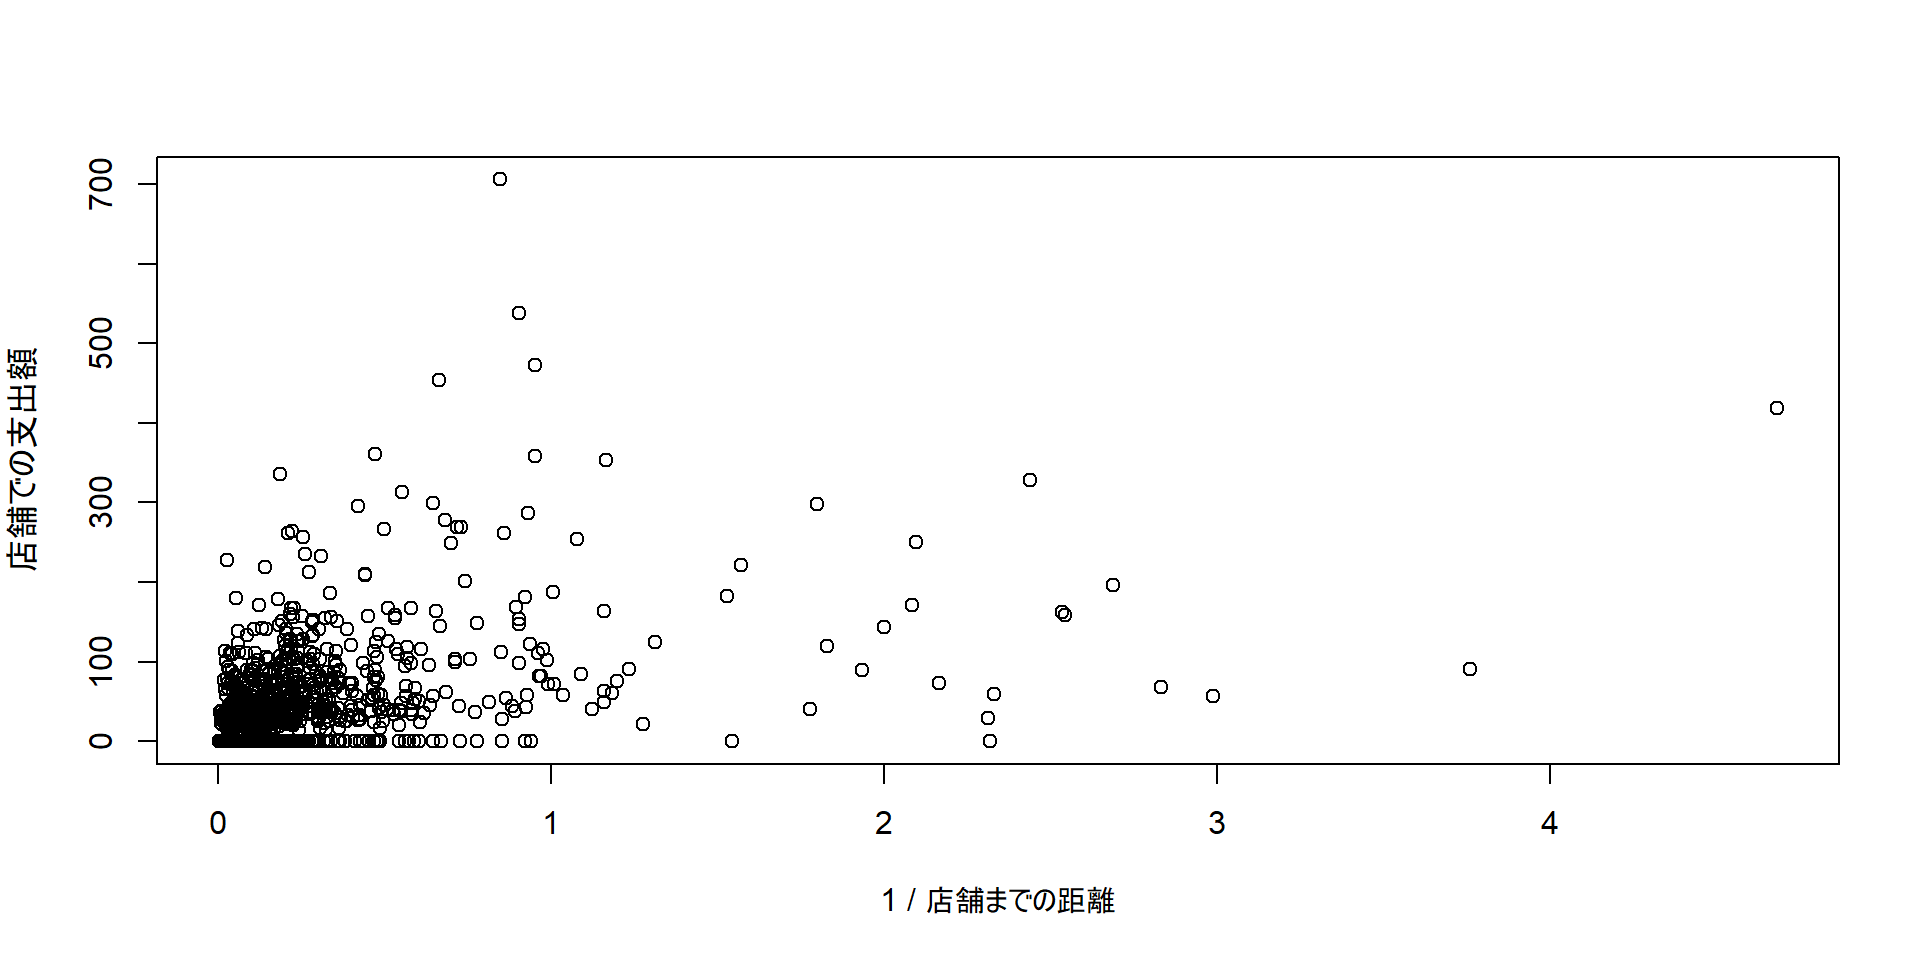
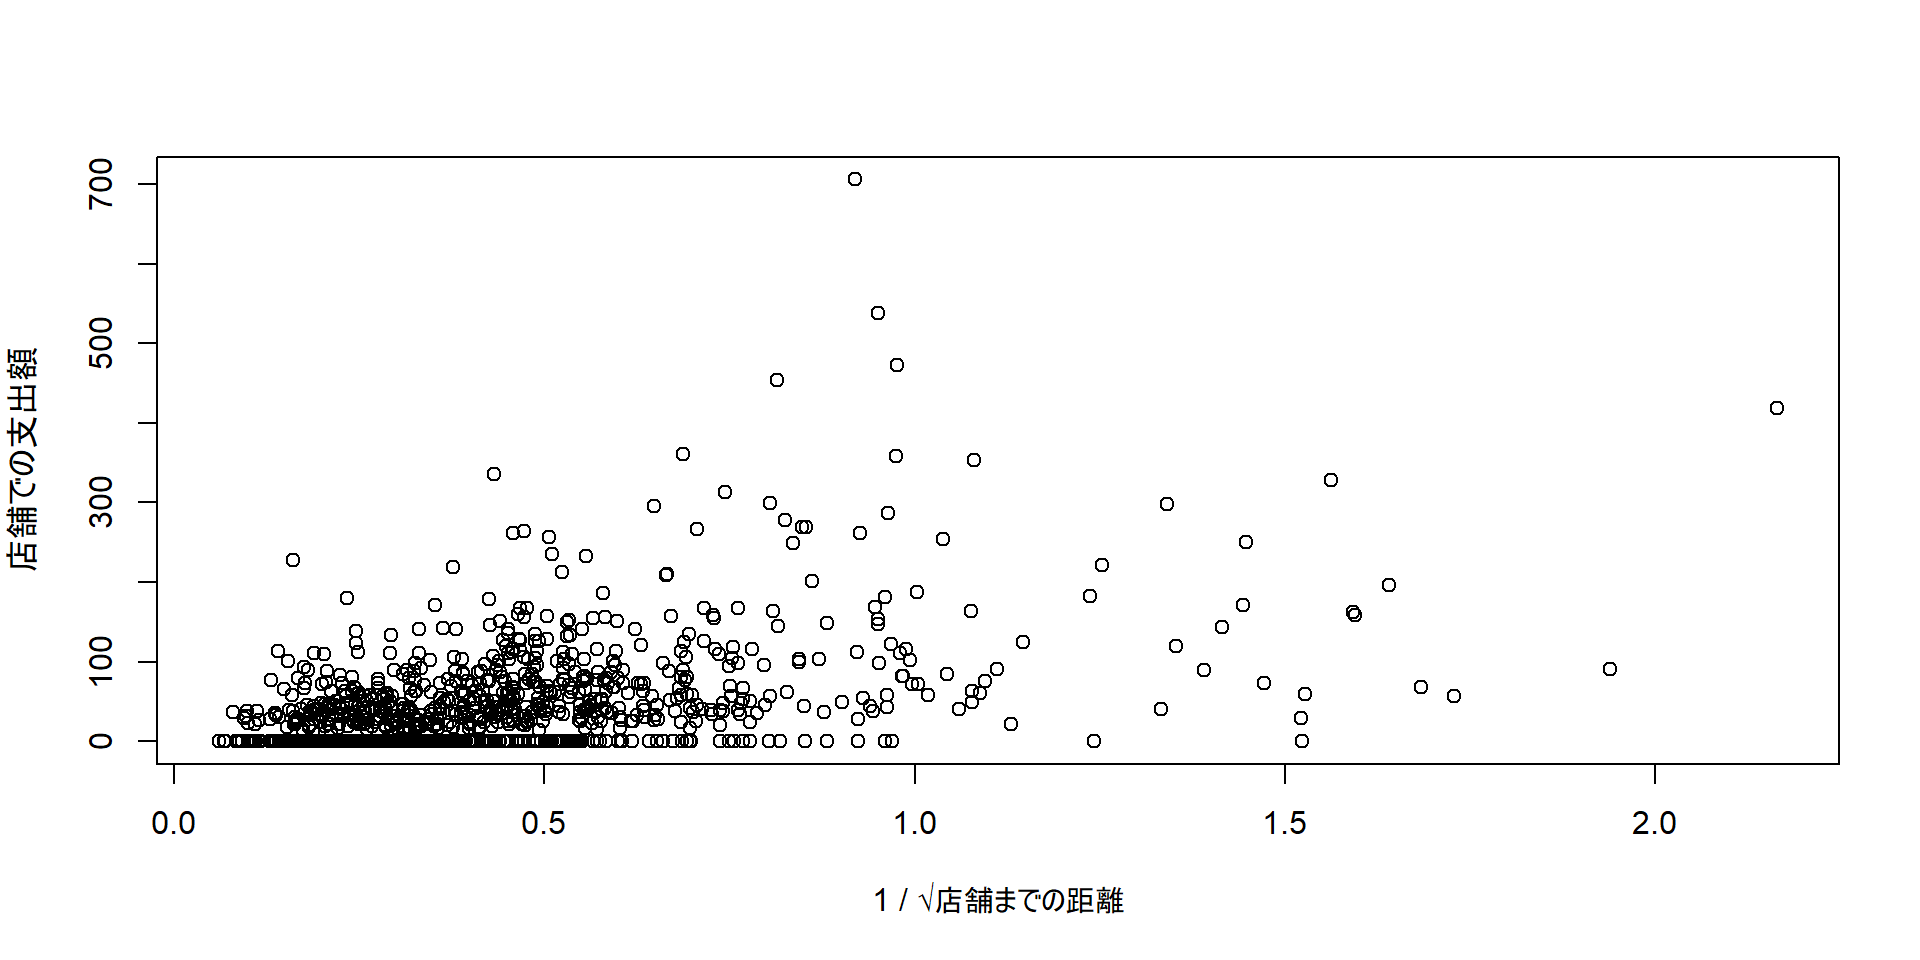
一部変換ミスを修正

diff --git a/20230422/Base_for_BeginneRs/slide.html b/20230422/Base_for_BeginneRs/slide.html
@@ -787,14 +787,14 @@ store.spend        -0.05224465 -0.051690053  0.89275685  1.000000000</code></pre
 <li>距離の逆数との相関を取ってみる</li>
 </ul>
 <div class="cell">
-<div class="sourceCode cell-code" id="cb28"><pre class="sourceCode numberSource r number-lines code-with-copy"><code class="sourceCode r"><span id="cb28-1"><a href="#cb28-1"></a><span class="fu">cor</span>(<span class="at">x =</span> <span class="dv">1</span> <span class="sc">/</span> usedata<span class="sc">$</span>distance.to.store, <span class="at">y =</span> usedata<span class="sc">$</span>store.trans)</span></code><button title="Copy to Clipboard" class="code-copy-button"><i class="bi"></i></button></pre></div>
+<div class="sourceCode cell-code" id="cb28"><pre class="sourceCode numberSource r number-lines code-with-copy"><code class="sourceCode r"><span id="cb28-1"><a href="#cb28-1"></a><span class="fu">cor</span>(<span class="at">x =</span> <span class="dv">1</span> <span class="sc">/</span> <span class="fu">sqrt</span>(usedata<span class="sc">$</span>distance.to.store), <span class="at">y =</span> usedata<span class="sc">$</span>store.trans)</span></code><button title="Copy to Clipboard" class="code-copy-button"><i class="bi"></i></button></pre></div>
 <div class="cell-output cell-output-stdout">
-<pre><code>[1] 0.4656151</code></pre>
+<pre><code>[1] 0.5340744</code></pre>
 </div>
 </div>
 <div class="cell">
-<div class="sourceCode cell-code" id="cb30"><pre class="sourceCode numberSource r number-lines code-with-copy"><code class="sourceCode r"><span id="cb30-1"><a href="#cb30-1"></a><span class="fu">plot</span>(    <span class="dv">1</span> <span class="sc">/</span> usedata<span class="sc">$</span>distance.to.store, <span class="at">y =</span> usedata<span class="sc">$</span>store.spend,</span>
-<span id="cb30-2"><a href="#cb30-2"></a><span class="at">xlab =</span> <span class="st">"1 / 店舗までの距離"</span>, <span class="at">ylab =</span> <span class="st">"店舗での支出額"</span>)</span></code><button title="Copy to Clipboard" class="code-copy-button"><i class="bi"></i></button></pre></div>
+<div class="sourceCode cell-code" id="cb30"><pre class="sourceCode numberSource r number-lines code-with-copy"><code class="sourceCode r"><span id="cb30-1"><a href="#cb30-1"></a><span class="fu">plot</span>(<span class="at">x=</span><span class="dv">1</span> <span class="sc">/</span> <span class="fu">sqrt</span>(usedata<span class="sc">$</span>distance.to.store), <span class="at">y =</span> usedata<span class="sc">$</span>store.spend,</span>
+<span id="cb30-2"><a href="#cb30-2"></a><span class="at">xlab =</span> <span class="st">"1 / √店舗までの距離"</span>, <span class="at">ylab =</span> <span class="st">"店舗での支出額"</span>)</span></code><button title="Copy to Clipboard" class="code-copy-button"><i class="bi"></i></button></pre></div>
 
 </div>
 <img data-src="slide_files/figure-revealjs/unnamed-chunk-14-1.png" width="960" class="r-stretch"></section>
